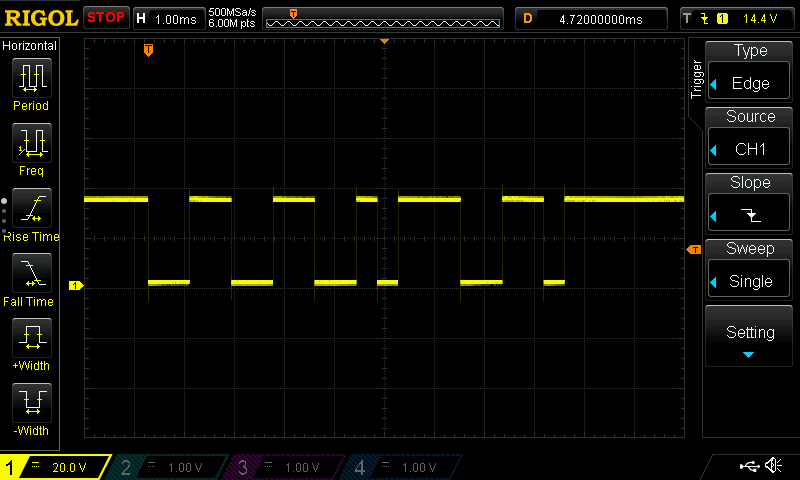
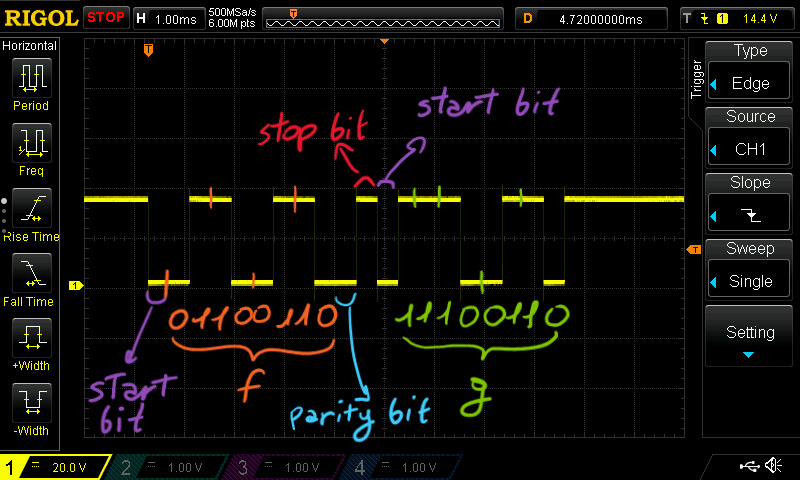
Scritto PROJECT 3 del Lab 3

diff --git a/reports/Lab3/sections/project3.tex b/reports/Lab3/sections/project3.tex
@@ -1,2 +1,222 @@
 \subsection{Project \#3}
+The goal of this project is to explore the UART transmission STATUS register behaviour in different scenarios.
 
+\subsubsection{Scenario \#1}
+In the first scenario, we aim to send a single character through the transmission data register, as we can see in line 30 of the code in Figure \ref{lst:P31}, and then compare the STATUS register before and after the transmission, as illustrated in lines 23–24 and 32–33 in the code in Figure \ref{lst:P31}.
+
+\begin{listing}[ht]
+\begin{minted}[linenos]{c}
+#define BAUDRATE 2400
+#define PARITY EVENPPARITY
+
+int main() {
+  char msg = 'f';
+
+  volatile uint32_t *ptr_rx = (volatile uint32_t *)UART_0_RX_REG;
+  volatile uint32_t *ptr_tx = (volatile uint32_t *)UART_0_TX_REG;
+  volatile uint32_t *ptr_sts = (volatile uint32_t *)UART_0_ST_REG;
+  volatile uint32_t *ptr_cnt = (volatile uint32_t *)UART_0_CNT_REG;
+  volatile uint32_t *ptr_div = (volatile uint32_t *)UART_0_DIV_REG;
+
+  // Configuration
+
+  // The UART core's parity, data bits, and stop bits are configurable.
+  // These settings are fixed at system generation time and cannot
+  // be altered via the register file.
+
+  // Set baudrate
+  *ptr_div |= (uint16_t)0x5160;
+
+  // 1st point
+  printf("Status before transmission: ");
+  print_bin16((uint16_t)*ptr_sts);
+
+  // wait trdy
+  // while (((*ptr_sts) & (1 << 6)) == 0);
+
+  // send msg
+  *ptr_tx = (uint32_t)msg;
+
+  printf("Status after transmission: ");
+  print_bin16((uint16_t)*ptr_sts);
+
+  return 0;
+}
+\end{minted}
+\caption{SCENARIO\_3\_1}
+\label{lst:P31}
+\end{listing}
+
+The experiment's terminal output is the following:
+
+\begin{listing}[ht]
+\begin{minted}{text}
+Status before transmission: 0000000111101000
+Status after transmission: 0000000111001000
+\end{minted}
+\caption{Terminal output}
+\label{lst:P31O}
+\end{listing}
+
+As we know, the STATUS register illustrates the connection's current state through the use of flags.  
+In the first sampling, the active flags are:
+\begin{itemize}
+    \item \textbf{ROE}: stands for "Receiver Overrun Error" and is active because in our code we never read the RECEIVER data register or reset our UART through the CONTROL register, so this error and the \textbf{E} flag are not cleared;
+    \item \textbf{TMT}: stands for "Transmitter Empty", indicating that no transmission is in progress;
+    \item \textbf{TRDY}: stands for "Transmitter Ready" and indicates that the transmission data register is empty, ready to be overwritten by a new byte;
+    \item \textbf{RRDY}: stands for "Receiver Ready" and indicates that the receiver data register is empty, ready to be overwritten by a new byte;
+    \item \textbf{E}: stands for "Error" and indicates a general error.
+\end{itemize}
+
+In the second sampling, the active flags are:
+\begin{itemize}
+    \item ROE;
+    \item TRDY;
+    \item RRDY;
+    \item E.
+\end{itemize}
+
+We can observe that the TRDY flag is no longer active because we wrote our character in the transmission data register in line 30 of our code in Figure \ref{lst:P31}.
+
+In Figure \ref{fig:P31OS}, we can see the transmission of our character through the UART.\\
+Measuring the distance between two wave fronts, we can understand the real UART clock frequency. In our case:
+
+\begin{equation}
+    f_{clkUART} = \frac{1}{1 * \frac{2}{5} \cdot 10^{-3}} = 2500\, \text{Hz}
+\end{equation}
+
+It is slightly different from the effective one, which is 2400 Hz.
+
+\subsubsection{Scenario \#2}
+In the second scenario, we want to observe the behaviour of the STATUS register during two consecutive transmissions. To do so, we wrote the following code:
+
+\begin{listing}[ht]
+\begin{minted}[linenos]{c}
+int main() {
+  char msg = 'f';
+
+  volatile uint32_t *ptr_rx = (volatile uint32_t *)UART_0_RX_REG;
+  volatile uint32_t *ptr_tx = (volatile uint32_t *)UART_0_TX_REG;
+  volatile uint32_t *ptr_sts = (volatile uint32_t *)UART_0_ST_REG;
+  volatile uint32_t *ptr_cnt = (volatile uint32_t *)UART_0_CNT_REG;
+  volatile uint32_t *ptr_div = (volatile uint32_t *)UART_0_DIV_REG;
+
+  // Configuration
+
+  // The UART core's parity, data bits, and stop bits are configurable.
+  // These settings are fixed at system generation time and cannot
+  // be altered via the register file.
+
+  // Set baudrate
+  *ptr_div |= (uint16_t)0x5160;
+
+  // ! USE OSCILLOSCOPE
+
+  printf("Status before transmission: ");
+  print_bin16((uint16_t)*ptr_sts);
+
+  *ptr_tx = (uint32_t)(msg + 0);
+  *ptr_tx = (uint32_t)(msg + 1);
+
+  printf("Status after transmission: ");
+  print_bin16((uint16_t)*ptr_sts);
+
+  return 0;
+}
+\end{minted}
+\caption{SCENARIO\_3\_2}
+\label{lst:P32}
+\end{listing}
+
+In the code, we send two consecutive characters ("f" and "g" in lines 24–25) through the UART without waiting for the previous transmission to finish.  
+The output is:
+
+\begin{listing}[ht]
+\begin{minted}{text}
+Status before transmission: 0000000111111100
+Status after transmission: 0000000110011100
+\end{minted}
+\caption{Terminal output}
+\label{lst:P32O}
+\end{listing}
+
+In the first sampling, the active flags are:
+\begin{itemize}
+    \item \textbf{BRK}: stands for "Break Detect" and takes care of the UART's reception. It appears because we neither read the receiver data register nor reset our UART through the CONTROL register;
+    \item ROE;
+    \item \textbf{TOE}: stands for "Transmitter Overrun Error" and appears because in our code we never reset our UART through the CONTROL register, so we overwrite our character in the transmission register;
+    \item TMT;
+    \item TRDY;
+    \item RRDY;
+    \item E.
+\end{itemize}
+
+While in the second sampling we have only these flags active:
+\begin{itemize}
+    \item BRK;
+    \item ROE;
+    \item TOE;
+    \item RRDY;
+    \item E.
+\end{itemize}
+
+We can say that we have the same warnings as in code \ref{lst:P31}, plus TOE and BRK because of the lack of control and reset of the UART transmission in the code.\\
+In fact, we overwrite the second character onto the first one because we send it too fast and without checking the TRDY flag.\\
+However, in the oscilloscope image in \ref{fig:P32OS}, we can observe that the board successfully transmitted the two characters, and between them we can observe only the parity bit of "f" and the start bit of "g".
+
+\subsubsection{Scenario \#3}
+In the last scenario, we repeat Scenario 2 but send not two but three characters (as we can see in lines 24–25–26 of \ref{lst:P33}).
+
+\begin{listing}[ht]
+\begin{minted}[linenos]{c}
+int main() {
+  char msg = 'f';
+
+  volatile uint32_t *ptr_rx = (volatile uint32_t *)UART_0_RX_REG;
+  volatile uint32_t *ptr_tx = (volatile uint32_t *)UART_0_TX_REG;
+  volatile uint32_t *ptr_sts = (volatile uint32_t *)UART_0_ST_REG;
+  volatile uint32_t *ptr_cnt = (volatile uint32_t *)UART_0_CNT_REG;
+  volatile uint32_t *ptr_div = (volatile uint32_t *)UART_0_DIV_REG;
+
+  // Configuration
+
+  // The UART core's parity, data bits and stop bits are configurable.
+  // These settings are fixed at system generation time; they cannot
+  // be altered via the register file !!
+
+  // Set baudrate
+  *ptr_div |= (uint16_t)0x5160;
+
+  // ! USE OSCILLOSCOPE
+
+  printf("Status before transmission: ");
+  print_bin16((uint16_t)*ptr_sts);
+
+  *ptr_tx = (uint32_t)(msg + 0);
+  *ptr_tx = (uint32_t)(msg + 1);
+  *ptr_tx = (uint32_t)(msg + 2);
+
+  printf("Status after transmission: ");
+  print_bin16((uint16_t)*ptr_sts);
+
+  return 0;
+}
+\end{minted}
+\caption{SCENARIO\_3\_3}
+\label{lst:P33}
+\end{listing}
+
+The terminal outputs the following data:
+\begin{listing}[ht]
+\begin{minted}{text}
+Status before transmission: 0000000111111100
+Status after transmission: 0000000110011100
+\end{minted}
+\caption{Terminal output}
+\label{lst:P33O}
+\end{listing}
+
+We observe the same flag activations as in Scenario 2.  
+However, by looking at the oscilloscope trace in Figure \ref{fig:P33OS}, we notice that the UART does not transmit the character "g" after "f", but instead sends "h".\\
+
+This happens because the UART transmits only two characters: the first one ("f") and the last value written into the transmission register ("h"). The intermediate character ("g") is overwritten before the UART becomes ready to load a new byte. Since the code does not check the TRDY flag before writing to the transmission register, the second write occurs while the UART is still busy, causing the byte "g" to be lost.

diff --git a/reports/Lab3/sections/appendix.tex b/reports/Lab3/sections/appendix.tex
@@ -1,1 +1,30 @@
 \section{This is an appendix}
+
+%PROJECT 3--------------------------------------------------------------------
+
+\begin{figure}[h]
+	\begin{center}
+		\includegraphics[width=0.5\textwidth]{figures/PROJECT_3_1.jpg}
+	\end{center}
+    \caption{Oscilloscope output of Progect 3 Scenario 1}
+    \label{fig:P31OS}
+
+\end{figure}
+
+\begin{figure}[h]
+	\begin{center}
+		\includegraphics[width=0.5\textwidth]{figures/DS1Z_QuickPrint3.png}
+	\end{center}
+    \caption{Oscilloscope output of Progect 3 Scenario 2}
+    \label{fig:P32OS}
+
+\end{figure}
+
+\begin{figure}[h]
+	\begin{center}
+		\includegraphics[width=0.5\textwidth]{figures/DS1Z_QuickPrint52.png}
+	\end{center}
+    \caption{Oscilloscope output of Progect 3 Scenario 3}
+    \label{fig:P33OS}
+\end{figure}
+%------------------------------------------------------------------------------

diff --git a/reports/Lab3/main.tex b/reports/Lab3/main.tex
@@ -76,6 +76,7 @@
 \input{sections/project4.tex}
 \input{sections/project5.tex}
 \input{sections/project6.tex}
+\input{sections/appendix.tex}
 
 
 % \input{sections/section1}

diff --git a/Lab03/hello_world.c b/Lab03/hello_world.c
@@ -45,7 +45,7 @@ void print_bin16(uint16_t x) {
   printf("\n");
 }
 
-#define PROJECT5_2
+#define PROJECT3_3
 
 #ifdef PROJECT1
 
